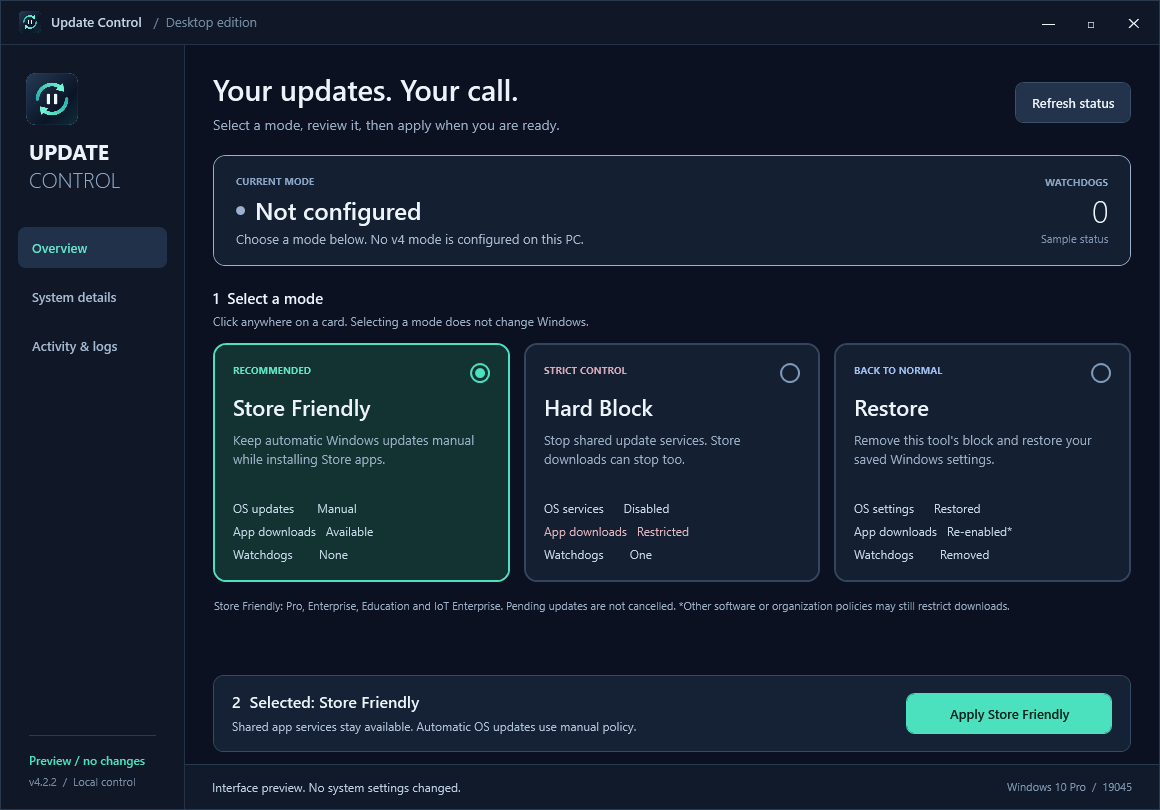
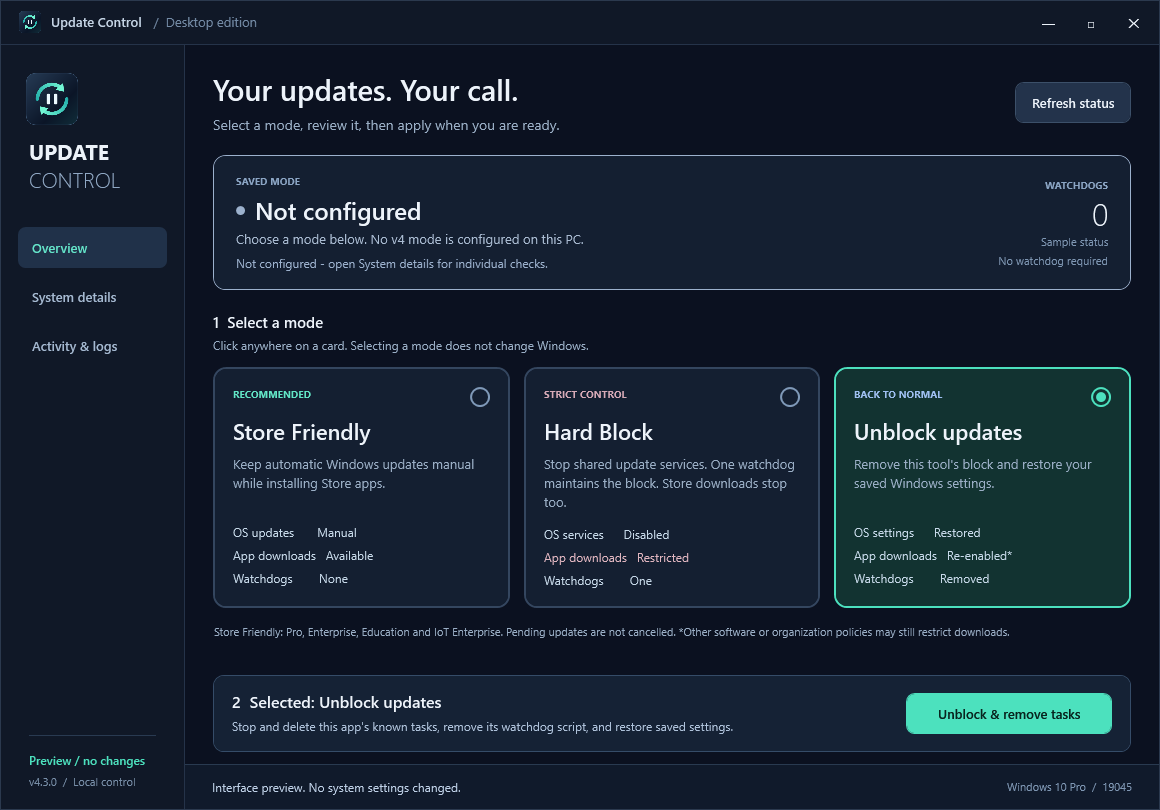
Document verified block and unblock flow with updated screenshots

diff --git a/UpdateControl.xaml b/UpdateControl.xaml
@@ -139,7 +139,7 @@
                 <TextBlock Text="Store Friendly: Pro, Enterprise, Education and IoT Enterprise. Pending updates are not cancelled. *Other software or organization policies may still restrict downloads." Foreground="{StaticResource Muted}" FontSize="11" LineHeight="17" Margin="1,0,1,0"/>
               </StackPanel>
               <StackPanel x:Name="DetailsPage" Visibility="Collapsed">
-                <Border Style="{StaticResource Card}" Margin="0,0,0,16"><StackPanel><TextBlock Text="Verification checks" FontSize="18" FontWeight="SemiBold" Margin="0,0,0,6"/><TextBlock Text="These checks describe the current configuration. They do not prove that every future Windows update is prevented." Foreground="{StaticResource Muted}" Margin="0,0,0,14" FontSize="12"/><DataGrid x:Name="ChecksGrid" RowHeight="NaN"><DataGrid.Columns><DataGridTextColumn Header="Check" Binding="{Binding Name}" Width="185"/><DataGridTextColumn Header="Result" Binding="{Binding Result}" Width="85"/><DataGridTextColumn Header="Details" Binding="{Binding Detail}" Width="*"/></DataGrid.Columns></DataGrid></StackPanel></Border>
+                <Border Style="{StaticResource Card}" Margin="0,0,0,16"><StackPanel><TextBlock Text="Verification checks" FontSize="18" FontWeight="SemiBold" Margin="0,0,0,6"/><TextBlock Text="These checks describe the current configuration. They do not prove that every future Windows update is prevented." Foreground="{StaticResource Muted}" Margin="0,0,0,14" FontSize="12"/><DataGrid x:Name="ChecksGrid" RowHeight="NaN" MinRowHeight="36"><DataGrid.Columns><DataGridTextColumn Header="Check" Binding="{Binding Name}" Width="185"/><DataGridTextColumn Header="Result" Binding="{Binding Result}" Width="85"/><DataGridTextColumn Header="Details" Binding="{Binding Detail}" Width="*" MinWidth="300"><DataGridTextColumn.ElementStyle><Style TargetType="TextBlock"><Setter Property="TextWrapping" Value="Wrap"/><Setter Property="Margin" Value="0,6"/></Style></DataGridTextColumn.ElementStyle></DataGridTextColumn></DataGrid.Columns></DataGrid></StackPanel></Border>
                 <Border Style="{StaticResource Card}" Margin="0,0,0,16"><StackPanel><TextBlock Text="Update &amp; app services" FontSize="18" FontWeight="SemiBold" Margin="0,0,0,6"/><TextBlock Text="A stopped Manual service can start when Windows needs it. Disabled means it cannot start." Foreground="{StaticResource Muted}" Margin="0,0,0,18" FontSize="12"/><DataGrid x:Name="ServicesGrid"><DataGrid.Columns><DataGridTextColumn Header="Service" Binding="{Binding Name}" Width="*" MinWidth="230"/><DataGridTextColumn Header="State" Binding="{Binding State}" Width="140"/><DataGridTextColumn Header="Startup" Binding="{Binding Startup}" Width="140"/></DataGrid.Columns></DataGrid></StackPanel></Border>
                 <Border Style="{StaticResource Card}"><StackPanel><TextBlock Text="Watchdog tasks" FontSize="18" FontWeight="SemiBold" Margin="0,0,0,12"/><TextBlock x:Name="TasksText" Text="No status yet." Foreground="{StaticResource Muted}" FontFamily="Consolas" FontSize="12"/><TextBlock x:Name="PolicyText" Text="" Foreground="{StaticResource Muted}" Margin="0,16,0,0"/></StackPanel></Border>
               </StackPanel>

diff --git a/README.md b/README.md
@@ -10,7 +10,7 @@ A Windows desktop interface for controlling automatic OS updates, keeping Micros
 
 [Release status and historical assets](https://github.com/ajaykareer/Windows-Update-Manager/releases/tag/v4.2.2) — neither the portable scripts nor older releases are a verified workaround for this detection.
 
-Version 4.2.2 is a preview release. See [validation and limitations](docs/VALIDATION.md) for what is tested.
+**4.3.0 is a development candidate with stronger verification and a simpler unblock action.** The code and screenshots are updated; a replacement public EXE has not been cleared or published. The 4.2.2 Defender report remains unresolved. See [validation and limitations](docs/VALIDATION.md) and [release requirements](docs/SIGNING.md).
 
 ![Update Control desktop overview](docs/screenshots/overview.png)
 
@@ -21,11 +21,12 @@ Version 4.2.2 is a preview release. See [validation and limitations](docs/VALIDA
 **Usage instructions below describe the preview's interface. They are on hold pending resolution of the [reported Defender detection](docs/SECURITY-NOTICE.md). Do not use the EXE or script launchers to bypass that detection.**
 
 1. Download **Update-Control.exe** and open it on the PC you want to manage. Accept the administrator prompt.
-2. If you used the old script, click the **Restore** card, then **Restore Windows**. Follow any restart message.
+2. If you used the old script, select **Unblock updates**, then **Unblock & remove tasks**. Follow any restart message.
 3. Click the **Store Friendly** card, then **Apply Store Friendly** to keep automatic Windows updates disabled by policy while allowing Store downloads, including apps such as ChatGPT.
-4. To remove the block later, select the **Restore** card and apply it.
+4. To block shared update services, select **Hard Block**, review the warning about Store downloads and the watchdog, and confirm. Wait for **Verified**; **Restart required** and **Needs attention** are not a completed verification.
+5. To remove the block later, select **Unblock updates**, then **Unblock & remove tasks**. Success requires zero known tasks and removal of the installed watchdog script.
 
-The entire card is clickable. Its outline and radio marker show your selection; Windows changes only after you press the separate action button. Hard Block adds a confirmation step. The **Current mode** panel shows the saved configuration, independently of the option you are considering.
+The entire card is clickable. Its outline and radio marker show your selection; Windows changes only after you press the separate action button. Hard Block adds a confirmation step. **Saved mode** shows the requested configuration; the separate **Verified / Awaiting verification / Needs attention** result shows what current checks established. A saved Hard Block setting alone is not proof that the block is effective.
 
 You download one EXE. It automatically extracts its embedded components into a protected version folder under `%ProgramFiles%\Kareer Update Control`. It uses Windows PowerShell 5.1 and .NET Framework already present on standard Windows 10/11 desktop installations. It does not require Python, Node, or a separate setup wizard.
 
@@ -39,11 +40,17 @@ For source access, the portable ZIP contains the same components. Extract everyt
 | --- | --- | --- | --- |
 | **Store Friendly** | Manual-update policy on supported editions | Shared download/install services available | None |
 | **Hard Block** | Stops and disables shared update services; best effort | Downloads may fail | One task, with startup and minute triggers |
-| **Restore Windows** | Restores the saved settings from before this tool's current blocking session | Removes this tool's restrictions | All recognized legacy/current tasks removed |
+| **Unblock & remove tasks** | Restores the saved settings from before this tool's current blocking session | Removes this tool's restrictions | All recognized legacy/current tasks removed |
 
 **Store Friendly is the recommended mode for keeping app installation available.** It sets `NoAutoUpdate=1`; it is not a complete lock on every kind of update. Manual updates and already pending installations are not cancelled. Organization or MDM settings can override local policy, and known deadline/WSUS conflicts are refused. Windows Home is not offered this policy mode; use Windows Settings' pause controls on Home.
 
 Hard Block also affects BITS and Delivery Optimization, which other applications use. Windows servicing or other administrative software may counteract service blocking. The application does not promise permanent suppression of all updates.
+
+## How the watchdog is verified
+
+Hard Block installs **one** `POS-WU-Guardian-v4` task running as SYSTEM, with startup and one-minute triggers. Apply checks the executable path, arguments, identity, enabled triggers and installed-script hash, then starts the task and waits for a check tied to this particular blocking session. A task that registers but cannot run causes failure and attempted rollback. If service changes need a restart, the app explicitly reports that verification is incomplete.
+
+During the initial check, Apply holds the operation lock and the watchdog only verifies the already-applied settings. Normal scheduled runs acquire the lock, enforce the block and verify it. A failed run, stale/missing check, changed watchdog file or service drift is visible in **System details → Verification checks**. Checks older than three minutes do not count as current proof.
 
 ## Reliable removal and recovery
 
@@ -53,9 +60,9 @@ The controller disarms its saved state **before** removing watchdogs. It searche
 - `POS-WU-Guardian`, `POS-WU-Guardian_Startup`, `POS-WU-Guardian_Hourly`
 - `POS-WU-Guardian-v4`
 
-It attempts disable, stop, and deletion independently; retries with the native Task Scheduler command; stops matching old guardian command processes; and verifies that no matching tasks remain. An incomplete removal is an error, not a success message.
+It attempts disable, stop, and deletion independently; retries with the native Task Scheduler command; stops matching old guardian command processes; and verifies that no matching tasks remain. It then removes the installed watchdog script and its health record. An incomplete removal is an error, not a success message. **This removes the app's tasks, not Windows Task Scheduler itself or unrelated tasks.**
 
-A protected baseline preserves original service startup settings and the original automatic-update policy across mode switches. An exclusive operation lock prevents simultaneous mode changes and guardian enforcement. A missing, corrupt, or transitional state never authorizes enforcement. Failed transitions attempt rollback and show **Needs attention**.
+A protected baseline preserves original service startup settings and the original automatic-update policy across mode switches. An exclusive operation lock prevents simultaneous mode changes and guardian enforcement. A missing, corrupt, or transitional state never authorizes enforcement. Failed transitions attempt rollback and show **Needs attention**. Successful restoration keeps the archived baseline, and subsequent status checks can compare current settings with it.
 
 Exact original-setting restoration applies to changes first made by version 4. The earlier batch scripts did not save full originals; their migration repair removes recognized restrictions and returns disabled dependencies to runnable settings. Existing unrelated administrator settings are preserved where identifiable.
 
@@ -63,7 +70,7 @@ Exact original-setting restoration applies to changes first made by version 4. T
 
 Overview separates the current mode from your pending selection. Click any part of a mode card, then use the action bar that stays visible at the bottom. Radio controls support keyboard and accessibility navigation. Read-only access, a running operation, missing status and an unsupported Store edition explain why Apply is unavailable. Selections survive automatic status refreshes.
 
-System details shows service and task status. Activity provides progress, logs, backups, and diagnostic reports. Hard Block has a confirmation dialog that prevents interaction with the underlying page until you confirm or cancel. Failure and restart results are distinct. No restart or Windows Update scan is issued automatically.
+System details shows individual verification results, service status and task details. Activity provides progress, logs, backups, and diagnostic reports. Hard Block has a confirmation dialog that explains the watchdog and prevents interaction with the underlying page until you confirm or cancel. Failure and restart results are distinct. No restart or Windows Update scan is issued automatically.
 
 | System details | Activity and recovery |
 | --- | --- |

diff --git a/docs/VALIDATION.md b/docs/VALIDATION.md
@@ -1,18 +1,19 @@
 # Validation and limits
 
-Version 4.2.2 is a preview. A successful build is not a guarantee that Windows servicing, every protected service, or Microsoft Store behaves identically on every machine.
+Version 4.3.0 is a development candidate. A successful build is not a guarantee that Windows servicing, every protected service, or Microsoft Store behaves identically on every machine, or that an antivirus detection is resolved.
 
 See [Windows validation runs](https://github.com/ajaykareer/Windows-Update-Manager/actions/workflows/windows.yml) for the result on each commit. The release packages should come from a successful run for the release commit.
 
 | Check | Coverage | What it does not prove |
 | --- | --- | --- |
-| Controller regression suite | Hard → Store → Restore, repeated restore, absent/original policy, immutable baseline, failure rollback, corrupt state, real file locks and atomic replacement | Actual Windows Update service permissions or OS policy enforcement |
+| Controller regression suite | Hard → Store → Restore, repeated restore, original policy, immutable baseline, failure rollback, corrupt state, real file locks, task startup timeout, stale/corrupt/future health rejection, service drift and changed script detection | Actual Windows Update service permissions or OS policy enforcement |
 | Watchdog removal regression | Both legacy naming families; all task folders; independent disable/stop/delete attempts; CLI fallback; remaining tasks fail explicitly | Every third-party task or renamed/custom blocker |
 | Repair regression suite | Exact known policy/ACL cleanup, unrelated policy preservation, service fallback errors, backup and teardown ordering | Exact pre-script permissions that old releases never recorded |
 | WPF smoke test | Actual status worker, card heading/body/padding hit targets, unobstructed Apply target at standard/minimum sizes, accessibility selection/invocation, no changes on selection/cancel, action routing, modal isolation, disabled-state reasons and selection persistence | Physical pointer/keyboard input or a real privileged button click on the affected PC |
 | Interface previews | Real WPF rendering with sample status, including smaller window layouts | A screenshot of successful live blocking |
-| Windows API integration | Actual temporary services, protected state/engine ACLs, scheduled SYSTEM task, drift correction, startup-setting restoration and task deletion | Client Windows Update, Medic behavior, reboot persistence, MDM or Store app installation |
+| Windows API integration | Actual temporary services, protected state/engine ACLs, scheduled SYSTEM task execution and health confirmation, drift correction, startup-setting restoration, nested task deletion and preservation of an unrelated task | Client Windows Update, Medic behavior, reboot persistence, MDM or Store app installation |
 | EXE/ZIP verification | Embedded SHA-256, exact source-to-package comparison, real elevated extraction and cached second launch in CI | Publisher signing, SmartScreen reputation or antivirus acceptance |
+| Release preflight regression | Rejects unsigned/invalid signatures, pending vendor records, wrong hashes, unrelated evidence URLs and future dates | Authenticity of a manually supplied vendor response; future detection behavior |
 
 The development workstation's update configuration is not modified by local tests. The hosted integration test uses uniquely named disposable resources and never targets Windows Update services or policy keys.
 

diff --git a/docs/TROUBLESHOOTING.md b/docs/TROUBLESHOOTING.md
@@ -8,6 +8,8 @@
 
 Open Update Control, select the **Restore** card, click **Restore Windows**, and follow any restart message. Reopen the controller, select **Store Friendly**, then click **Apply Store Friendly** on a supported edition. This keeps shared services available while setting automatic Windows updates to manual policy. Close and reopen Microsoft Store. If it retains an old error, run `wsreset.exe` from Win+R.
 
+In the 4.3.0 candidate, restoration is labeled **Unblock updates → Unblock & remove tasks**. Keep that candidate in review until the signing and vendor-review requirements are satisfied.
+
 Do not keep Hard Block enabled while expecting Store downloads to work. Other causes, such as account, network, organization policy or Store damage, are outside this controller's repair scope.
 
 ## A watchdog remains after Restore
@@ -15,6 +17,19 @@ Do not keep Hard Block enabled while expecting Store downloads to work. Other ca
 The new controller looks in every Task Scheduler folder for both `WU-Guardian*` and `POS-WU-Guardian*` families, but matches only the explicit names listed in the README. It disarms enforcement, then separately tries disable, stop and deletion. If deletion still fails, it reports **Needs attention** and includes a log path.
 
 Use **Activity → Open logs** and create a diagnostic report. Confirm you opened the controller with administrator access. Rerun Restore after resolving the reported error. Do not delete the data folder while a guardian is still active. Tasks with custom names are not automatically deleted.
+
+In 4.3.0, success also requires removing the installed watchdog script and health file. The application removes its own tasks; Windows Task Scheduler and unrelated tasks remain available. Archived baselines and logs are kept for recovery.
+
+## Hard Block is saved but verification needs attention
+
+**Saved mode** records the selection. It is not a claim that the services and watchdog are currently working. Read **System details → Verification checks**:
+
+- A service or policy failure means the checked configuration is not currently fully blocked.
+- A task definition or script-hash failure means the installed guardian differs from the recorded configuration, is disabled, or is missing.
+- **Awaiting verification** means no valid check from this blocking session was received in the last three minutes. After a resume or restart, refresh after a scheduled minute. Continued absence needs investigation, not a success assumption.
+- A nonzero task result or failed health check shows the task could not complete its work. Keep the diagnostic report and use the reviewed recovery procedure.
+
+During Apply, the app starts the registered task and waits up to 25 seconds for proof it can run and verify the settings. A timeout fails the operation and attempts rollback. A restart-required result is separate; task installation alone does not prove the block until services have reloaded and the checks pass.
 
 ## Mode cards or Apply seem unresponsive
 

diff --git a/docs/SIGNING.md b/docs/SIGNING.md
@@ -40,6 +40,18 @@ Use the installed security product to scan the exact release and record the resu
 
 Microsoft accepts developer submissions of suspicious files and suspected incorrect detections at its Security Intelligence portal. Include the detected product/name, exact hash when available, repository link, and explanation of the user-selected update controls. Distinguish the affected copy from the published release if their hashes have not been compared. Do not restore a quarantined sample just to calculate its hash or execute it. A submission is not a promise of acceptance; review and classification remain with the vendor.
 
+## 4.3.0 candidate publication preflight
+
+The candidate remains unsigned and has not received a Microsoft determination. Its functional improvements do not establish the cause of the 4.2.2 detection. Development CI builds are review artifacts, not cleared public releases.
+
+Before publishing a replacement EXE, sign it using a trusted identity, obtain and inspect Microsoft's determination for those final signed bytes, and record the actual response using [release-review.template.json](release-review.template.json). Keep the template pending until there is evidence; do not substitute a local negative scan or invent a review outcome.
+
+```powershell
+.\scripts\Test-ReleaseReadiness.ps1 -ExecutablePath .\dist\Update-Control.exe -ReviewRecordPath .\release-review.json
+```
+
+This preflight rejects missing/invalid signatures or timestamps, pending reviews and mismatched file hashes. It checks a publisher-supplied record; it does not authenticate a live Microsoft verdict. The publisher must inspect the linked response. Rebuilding or signing again changes the bytes and requires a matching review. Until the preflight and manual review are complete, keep any GitHub release in draft. No signing identity, Microsoft submission or favorable determination has been obtained by this change.
+
 Official references:
 
 - [Microsoft code-signing options and reputation limitations](https://learn.microsoft.com/en-us/windows/apps/package-and-deploy/code-signing-options)

diff --git a/docs/BUILD.md b/docs/BUILD.md
@@ -1,5 +1,7 @@
 # Building Update Control
 
+Version 4.3.0 is a development candidate. Build outputs are for review; they have not been cleared as a replacement for the reported 4.2.2 detection. See [release preflight and signing](SIGNING.md).
+
 Use Windows PowerShell 5.1 on Windows 10/11 with .NET Framework 4.8 or later. Building does not require elevation, downloaded packages, or changes to update settings. The workflow uses a Windows Server 2022 runner for the Windows API tests; that does not establish client OS policy support.
 
 From the repository directory:
@@ -12,7 +14,7 @@ powershell.exe -NoProfile -ExecutionPolicy Bypass -File .\tests\Test-Package.ps1
 The build creates these ignored outputs in `dist`:
 
 - `Update-Control.exe`: native C# launcher with embedded ZIP, SHA-256 integrity check, administrator manifest, and application icon.
-- `Update-Control-Desktop-v4.2.2.zip`: the same application components for manual extraction.
+- `Update-Control-Desktop-v4.3.0.zip`: the same application components for manual extraction.
 - `SHA256SUMS.txt`: checksums for both downloads.
 - `Update-Control.ico` and `Update-Control.png`: reusable application icon assets (also covered by the checksums).
 
@@ -22,7 +24,7 @@ The launcher validates the embedded archive and caches files under `%ProgramFile
 
 No signing certificate is included. An unsigned build has no verified publisher identity.
 
-See [publisher signing](SIGNING.md) for the optional SHA-256/RFC 3161 signing helper, provider requirements and the limits of signing. The public preview is still unsigned.
+See [publisher signing](SIGNING.md) for the optional SHA-256/RFC 3161 signing helper, provider requirements and the limits of signing. The candidate is still unsigned. Keep its GitHub release in draft until the signature, exact-hash vendor review and publication preflight are complete.
 
 ## Local checks
 

diff --git a/CHANGELOG.md b/CHANGELOG.md
@@ -1,5 +1,14 @@
 # Changelog
 
+## 4.3.0 — Verified blocking and task removal (development candidate)
+
+- Keeps Hard Block with one SYSTEM watchdog and startup/minute triggers. Verifies its exact command, enabled triggers, identity and installed script, then requires a current-session task check before accepting a completed block.
+- Rolls back a new block if task execution cannot be verified. Distinguishes restart-required changes from verified results.
+- Adds live verification for policy, services, task configuration, script integrity and recent task checks. A saved mode alone no longer looks like proof of effective blocking.
+- Makes **Unblock updates → Unblock & remove tasks** explicit. Removes known tasks across all folders, the installed watchdog script and its health record, while retaining recovery backups. Store Friendly also removes watchdog components.
+- Adds real Windows integration coverage for task execution, nested task cleanup and preservation of unrelated tasks, plus regressions for stale/corrupt health, timeouts, service drift and changed scripts.
+- Adds a release preflight requiring a valid timestamped publisher signature and a recorded Microsoft determination for the exact signed EXE hash. This is not a guarantee of future antivirus acceptance; the 4.2.2 detection remains unresolved, and the candidate stays in draft.
+
 ## 4.2.2 — Clear mode selection and Apply
 
 - Replaces static mode cards with full-card radio controls: heading, description and padding all select the option.

diff --git a/docs/SECURITY-NOTICE.md b/docs/SECURITY-NOTICE.md
@@ -1,6 +1,8 @@
 # Reported Microsoft Defender detection
 
-Status as of 2026-10-09: **unresolved; no vendor verdict obtained**.
+Status as of 2026-10-16: **unresolved; no vendor verdict obtained**.
+
+The 4.3.0 development candidate adds functional verification and more complete watchdog cleanup. It is not a resolution of the detection below. Its EXE remains unsigned, and any release is kept in draft pending publisher signing, vendor review of the exact final bytes, and the [publication preflight](SIGNING.md). Do not treat its source changes, functional tests or a different hash as antivirus clearance.
 
 A user supplied a Windows Security screenshot showing `Trojan:Win32/Sabsik.FL.A!ml` (Severe) for a downloaded file named `Update-Control 4.2.2.exe`. This establishes a detection associated with that filename. We have not obtained the affected file's SHA-256, the affected PC's Defender versions, or evidence identifying the detection trigger. The screenshot alone does not prove the affected file matches the published release, that the file is malicious, or that this is a false positive.
 
